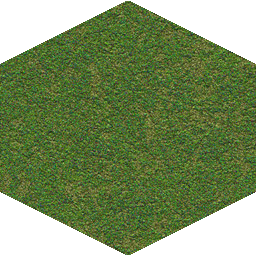
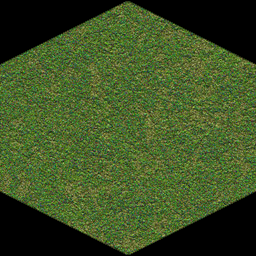
Removed alpha texture from tile - now it is an actual hexagon

Changed region(s): [[0.0, 0.75, 1.0, 1.0], [0.0, 0.0, 1.0, 0.25]]

diff --git a/General/PrototypeCollection.cpp b/General/PrototypeCollection.cpp
@@ -15,7 +15,7 @@ namespace
     map.insert({ "map",
       { "map", "plane.fbx", "map.jpg" } });
     map.insert({ "tile",
-      { "tile", "plane.fbx", "tile_grass.png" } });
+      { "tile", "tile.fbx", "tile_grass.png" } });
     map.insert({ "tank",
       { "tank", "ball.fbx", "cube_unwrap.png" } });
 
